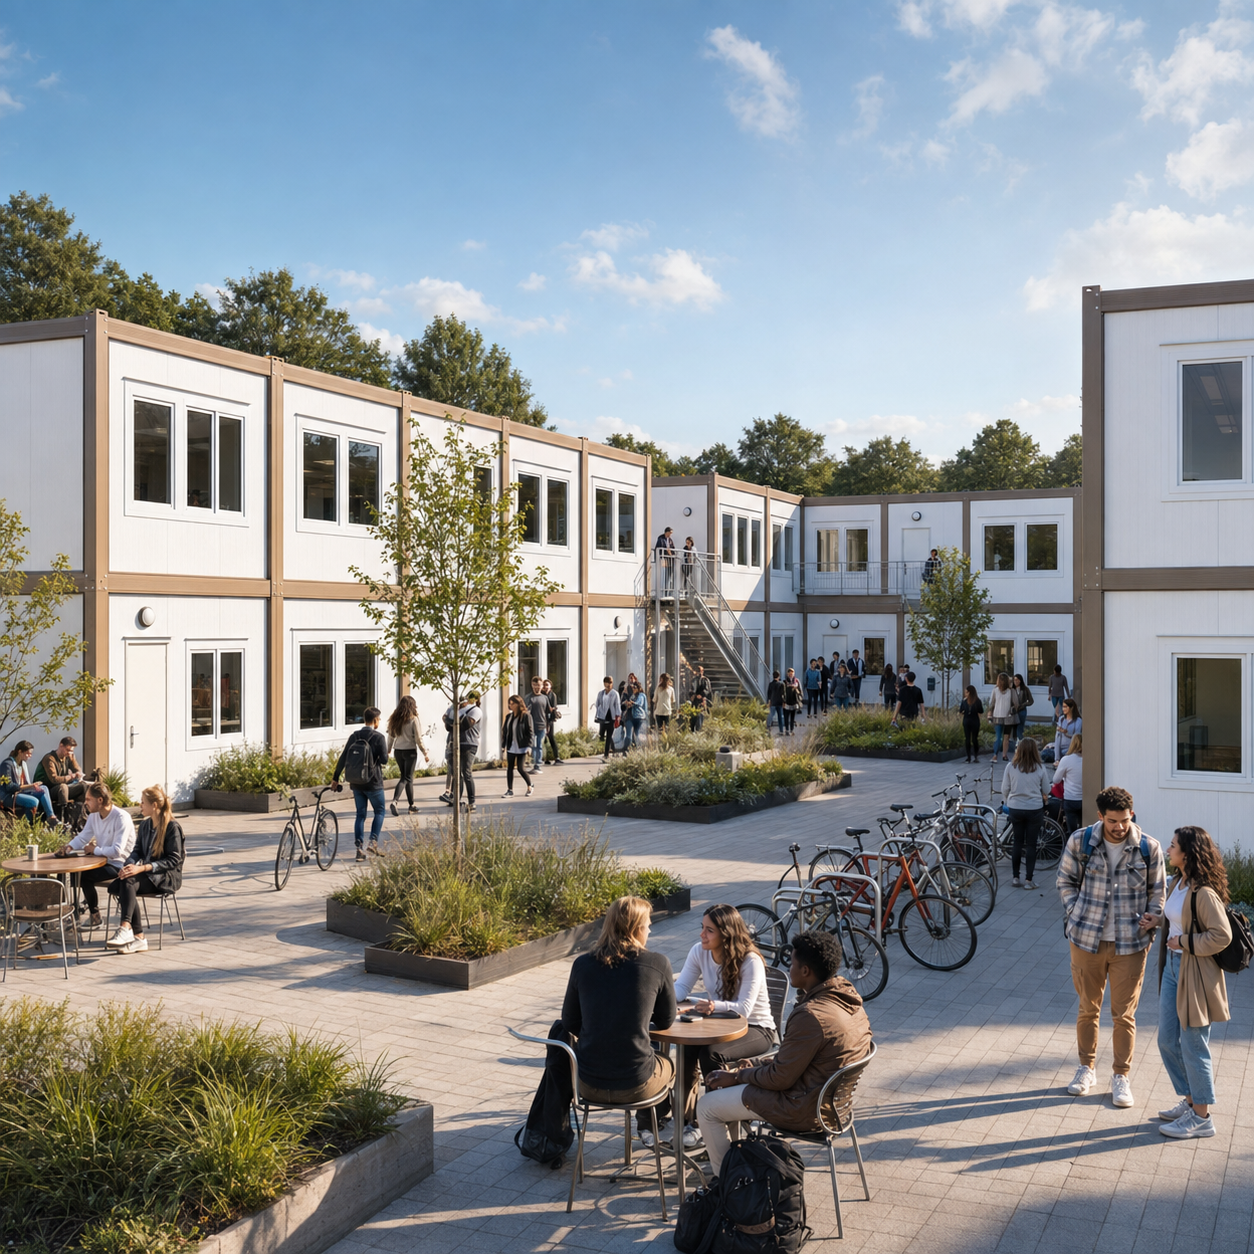
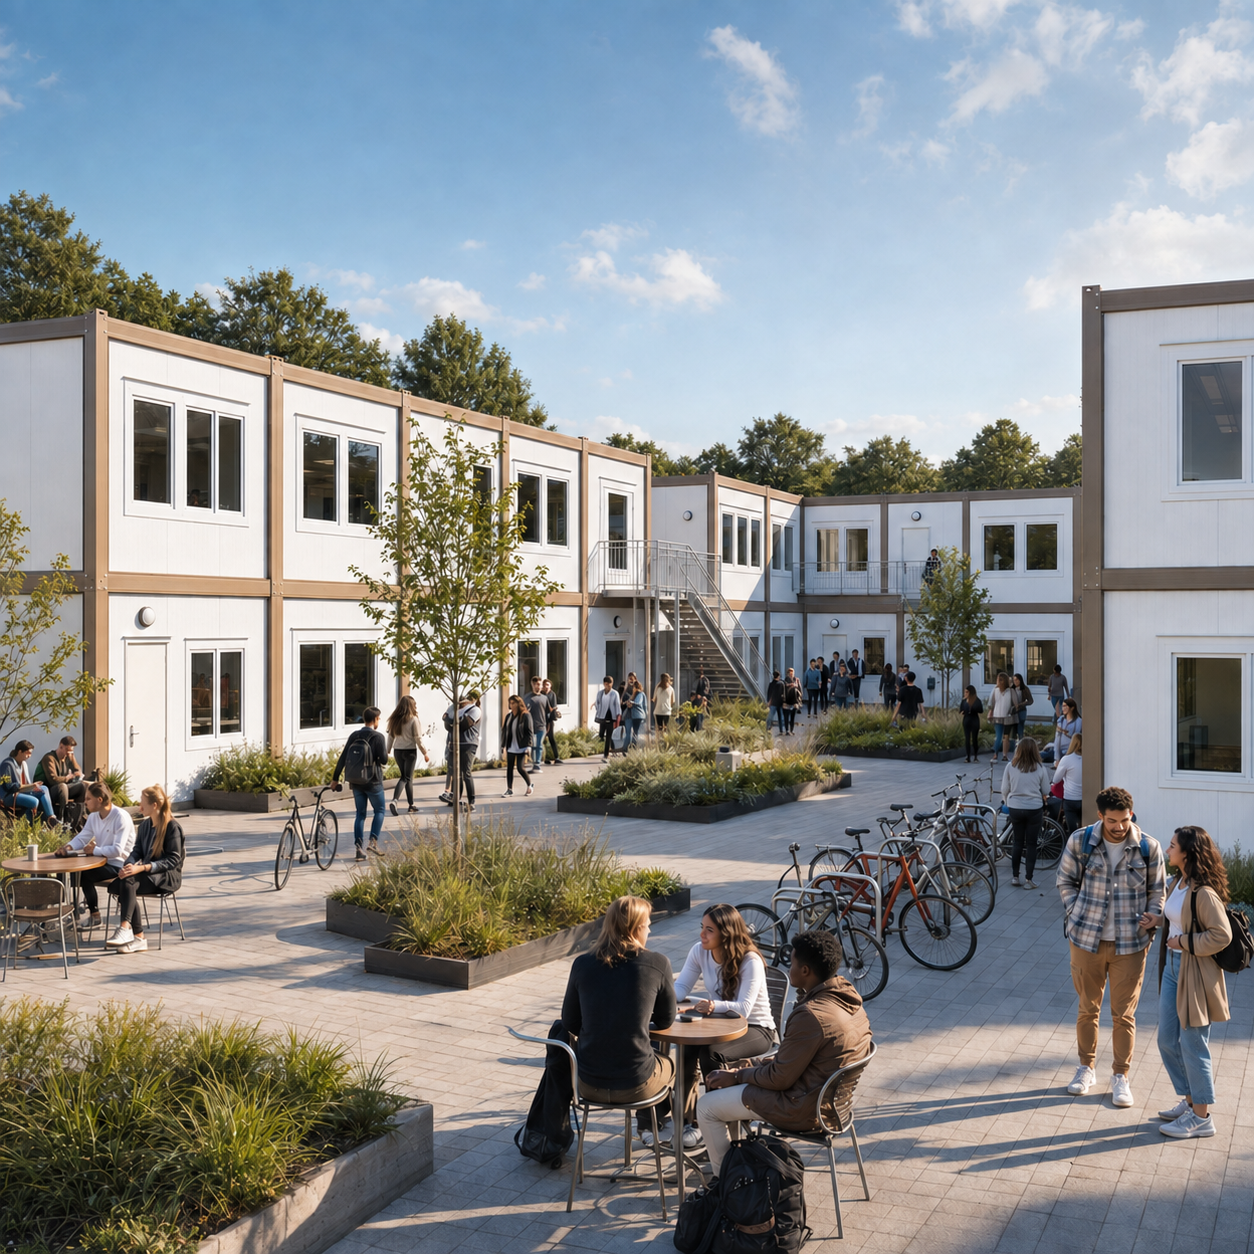
fix: strengthen about campus hero

diff --git a/app/components/about/HeroSection.vue b/app/components/about/HeroSection.vue
@@ -14,16 +14,21 @@
       <!-- Right Column: Image Card -->
       <div class="lg:col-span-6">
         <figure class="relative h-80 w-full overflow-hidden rounded-lg border border-brand-rose-border/30 shadow-[0px_10px_15px_-3px_rgba(0,0,0,0.05),0px_4px_6px_-2px_rgba(0,0,0,0.1)] sm:h-96">
-          <img
-            src="/images/about/about-business-campus-hero-v2.png"
-            srcset="/images/about/about-business-campus-hero-v2.webp 1254w"
-            sizes="(min-width: 1024px) 50vw, 100vw"
-            alt="Concept visualisation of an active modular business and education campus"
-            loading="eager"
-            fetchpriority="high"
-            decoding="async"
-            class="h-full w-full object-cover"
-          />
+          <picture class="block h-full w-full">
+            <source
+              type="image/webp"
+              srcset="/images/about/about-business-campus-hero-v2.webp 1280w"
+              sizes="(min-width: 1024px) 50vw, 100vw"
+            />
+            <img
+              src="/images/about/about-business-campus-hero-v2.png"
+              alt="Concept visualisation of an active modular business and education campus"
+              loading="eager"
+              fetchpriority="high"
+              decoding="async"
+              class="h-full w-full object-cover"
+            />
+          </picture>
           <figcaption class="absolute bottom-3 left-3 rounded bg-brand-navy/85 px-2.5 py-1.5 text-[10px] font-semibold uppercase tracking-[0.08em] text-white backdrop-blur-sm">
             Concept visualisation
           </figcaption>

diff --git a/tests/components/AboutHeroSection.spec.ts b/tests/components/AboutHeroSection.spec.ts
@@ -10,10 +10,12 @@ describe('AboutHeroSection', () => {
   it('presents the business campus as a responsive concept visualisation', () => {
     const wrapper = mount(AboutHeroSection);
     const image = wrapper.get('img');
+    const webpSource = wrapper.get('picture source[type="image/webp"]');
 
     expect(image.attributes('src')).toBe('/images/about/about-business-campus-hero-v2.png');
-    expect(image.attributes('srcset')).toBe('/images/about/about-business-campus-hero-v2.webp 1254w');
-    expect(image.attributes('sizes')).toBe('(min-width: 1024px) 50vw, 100vw');
+    expect(image.attributes('srcset')).toBeUndefined();
+    expect(webpSource.attributes('srcset')).toBe('/images/about/about-business-campus-hero-v2.webp 1280w');
+    expect(webpSource.attributes('sizes')).toBe('(min-width: 1024px) 50vw, 100vw');
     expect(image.attributes('alt')).toBe('Concept visualisation of an active modular business and education campus');
     expect(image.attributes('loading')).toBe('eager');
     expect(image.attributes('fetchpriority')).toBe('high');
@@ -32,4 +34,3 @@ describe('AboutHeroSection', () => {
     }
   });
 });
-
